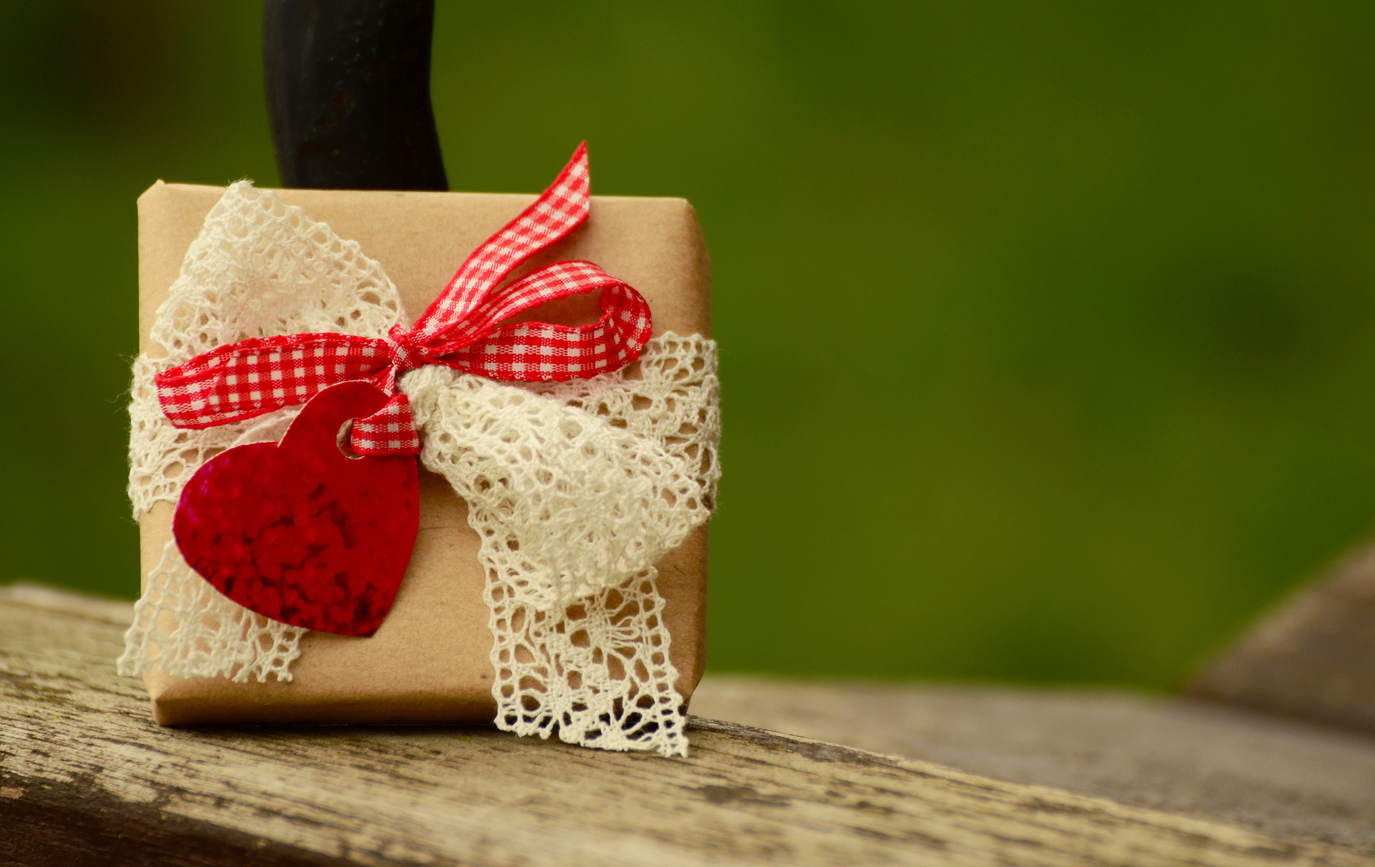
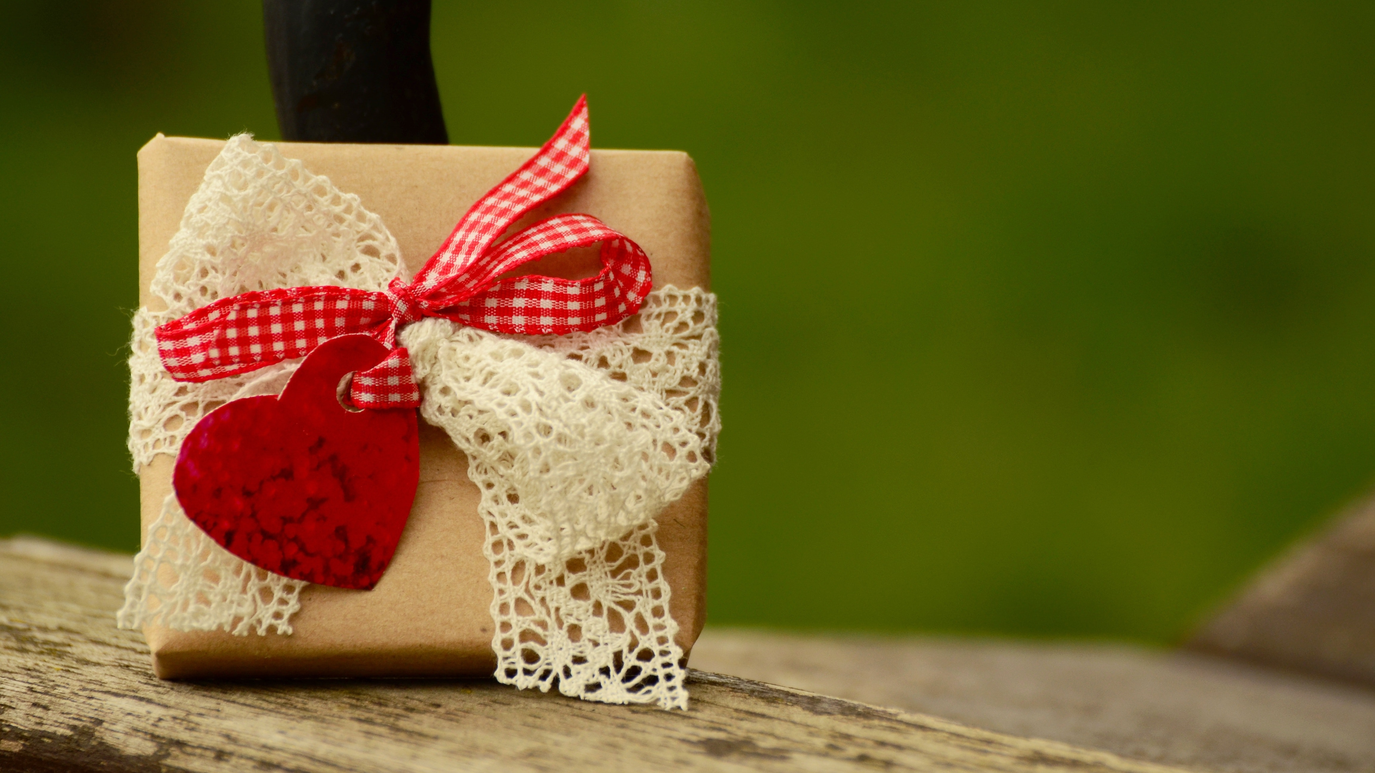
photos update

Changed region(s): [[0.0, 0.0937, 1.0, 1.0], [0.9991, 0.687, 1.0, 0.7182]]

diff --git a/BoxProblem/BoxProblem/wwwroot/css/OverallCSS.css b/BoxProblem/BoxProblem/wwwroot/css/OverallCSS.css
@@ -31,7 +31,7 @@
 }
 .mySlides {
     width: 100%;
-    height: 700px;
+    height: auto;
     position: relative;
     z-index: 2;
 }
